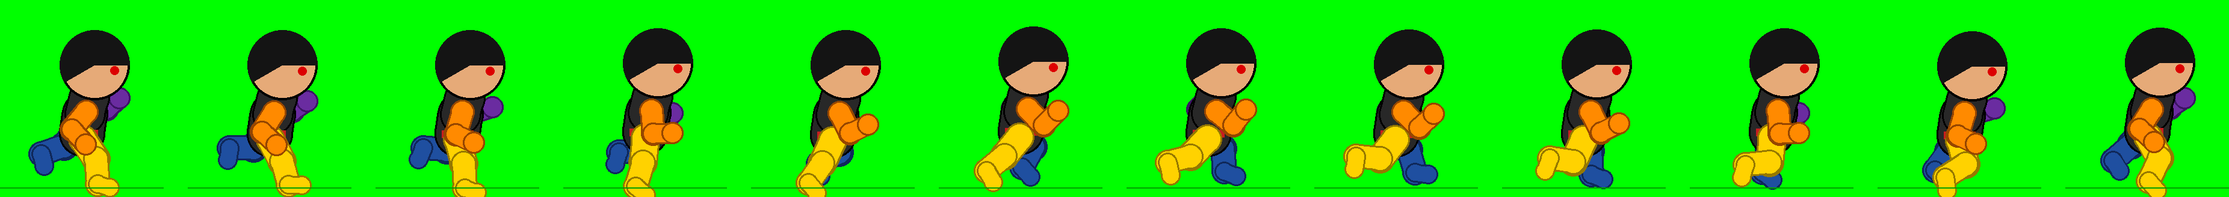
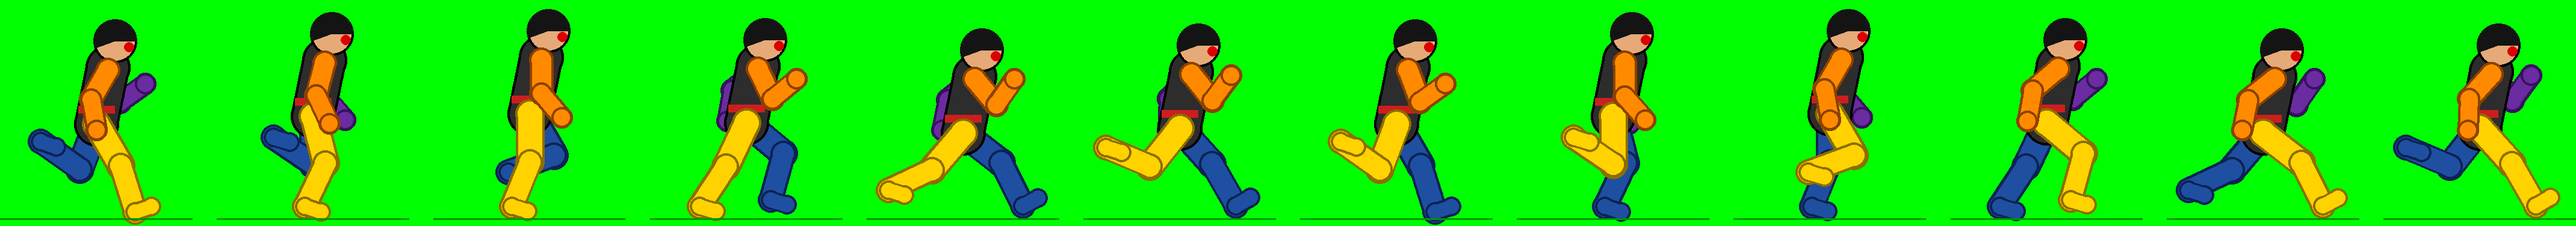
Người đặc chạy: dựng lại theo chu kỳ chạy chuẩn (tiếp đất, nhún, ngang, đẩy, bay; tay ngược chân)
Claude-Session: https://claude.ai/code/session_017N7QXqfkK27mirk6Hvvt7g

diff --git a/docs/khung-que-8-huong/nguoi-dac/ve-chay-chuan.py b/docs/khung-que-8-huong/nguoi-dac/ve-chay-chuan.py
@@ -1,0 +1,57 @@
+import math
+from PIL import Image,ImageDraw
+S=4; N=12
+# one-leg cycle (thigh deg from vertical, +forward ; knee bend deg)
+TH=[30,15,0,-25,-40,-38,-20,0,30,50,52,42]
+KN=[12,40,22,8,25,75,105,125,100,65,25,12]
+ARM=lambda i: -TH[i%12]*1.0
+def leg(h,i):
+    a=math.radians(TH[i%12]); k=math.radians(KN[i%12])
+    kn=(h[0]+20*math.sin(a),h[1]+20*math.cos(a)); s=a-k
+    an=(kn[0]+20*math.sin(s),kn[1]+20*math.cos(s))
+    fs=max(s,-0.3) if True else s
+    toe=(an[0]+7*math.cos(fs),an[1]-7*math.sin(fs))
+    return kn,an,toe
+frames=[]
+for i in range(N):
+    h0=(48,0)
+    R=leg(h0,i); L=leg(h0,i+6)
+    low=max(R[1][1],L[1][1],R[2][1],L[2][1])
+    hy=88-low
+    if i%6 in (4,5): hy-=2.5      # flight
+    frames.append((hy,i))
+cols={'t':((106,44,160),(55,18,95)),'p':((255,138,0),(140,65,0)),'lt':((31,79,160),(12,35,85)),'lp':((255,210,0),(140,110,0))}
+def cap(dr,a,b,w,c):
+    for ww,cc in ((w+8,c[1]),(w,c[0])):
+        dr.line([a,b],fill=cc,width=int(ww))
+        for (x,y) in (a,b): dr.ellipse([x-ww/2,y-ww/2,x+ww/2,y+ww/2],fill=cc)
+CW,CH=80*S,94*S; G=40
+img=Image.new('RGB',(N*CW+(N-1)*G,CH),(0,255,0))
+for hy,i in frames:
+    cell=Image.new('RGB',(96*S,96*S),(0,255,0)); dr=ImageDraw.Draw(cell)
+    sc=lambda p:(p[0]*S,p[1]*S)
+    hip=(48,hy); lean=math.radians(12)
+    chest=(hip[0]+24*math.sin(lean),hip[1]-24*math.cos(lean))
+    head=(chest[0]+3,chest[1]-11)
+    def arm(side,ang):
+        sh=(chest[0],chest[1]+1)
+        a=math.radians(ang); e=math.radians(105 if ang>0 else 40)
+        el=(sh[0]+14*math.sin(a),sh[1]+14*math.cos(a)); f=a+e
+        wr=(el[0]+13*math.sin(f),el[1]+13*math.cos(f))
+        return sh,el,wr
+    aR=arm('p',ARM(i)); aL=arm('t',ARM(i+6))
+    lR=leg(hip,i); lL=leg(hip,i+6)
+    # far side first
+    for p in (aL,):
+        cap(dr,sc(p[0]),sc(p[1]),32,cols['t']); cap(dr,sc(p[1]),sc(p[2]),28,cols['t']); x,y=sc(p[2]); dr.ellipse([x-17,y-17,x+17,y+17],fill=cols['t'][0],outline=cols['t'][1],width=4)
+    cap(dr,sc(hip),sc(lL[0]),40,cols['lt']); cap(dr,sc(lL[0]),sc(lL[1]),34,cols['lt']); cap(dr,sc(lL[1]),sc(lL[2]),24,cols['lt'])
+    cap(dr,sc(hip),sc(chest),66,((45,45,45),(0,0,0)))
+    x,y=sc(hip); dr.rectangle([x-30,y-30,x+30,y-18],fill=(205,30,30))
+    cap(dr,sc(hip),sc(lR[0]),40,cols['lp']); cap(dr,sc(lR[0]),sc(lR[1]),34,cols['lp']); cap(dr,sc(lR[1]),sc(lR[2]),24,cols['lp'])
+    x,y=sc(head); r=9*S
+    dr.ellipse([x-r,y-r,x+r,y+r],fill=(230,170,120),outline=(0,0,0),width=4); dr.pieslice([x-r,y-r,x+r,y+r],160,360,fill=(20,20,20))
+    dr.ellipse([x+r*0.4,y+2,x+r*0.4+16,y+18],fill=(220,0,0))
+    p=aR; cap(dr,sc(p[0]),sc(p[1]),32,cols['p']); cap(dr,sc(p[1]),sc(p[2]),28,cols['p']); x,y=sc(p[2]); dr.ellipse([x-17,y-17,x+17,y+17],fill=cols['p'][0],outline=cols['p'][1],width=4)
+    dr.line([(0,88*S+12),(96*S,88*S+12)],fill=(0,150,0),width=3)
+    img.paste(cell.crop((8*S,0,88*S,94*S)),(i*(CW+G),0))
+img.save('/tmp/claude-0/-home-claude/52818104-cc44-5676-9a9e-80d37d57856b/scratchpad/manne/chay3.png')
